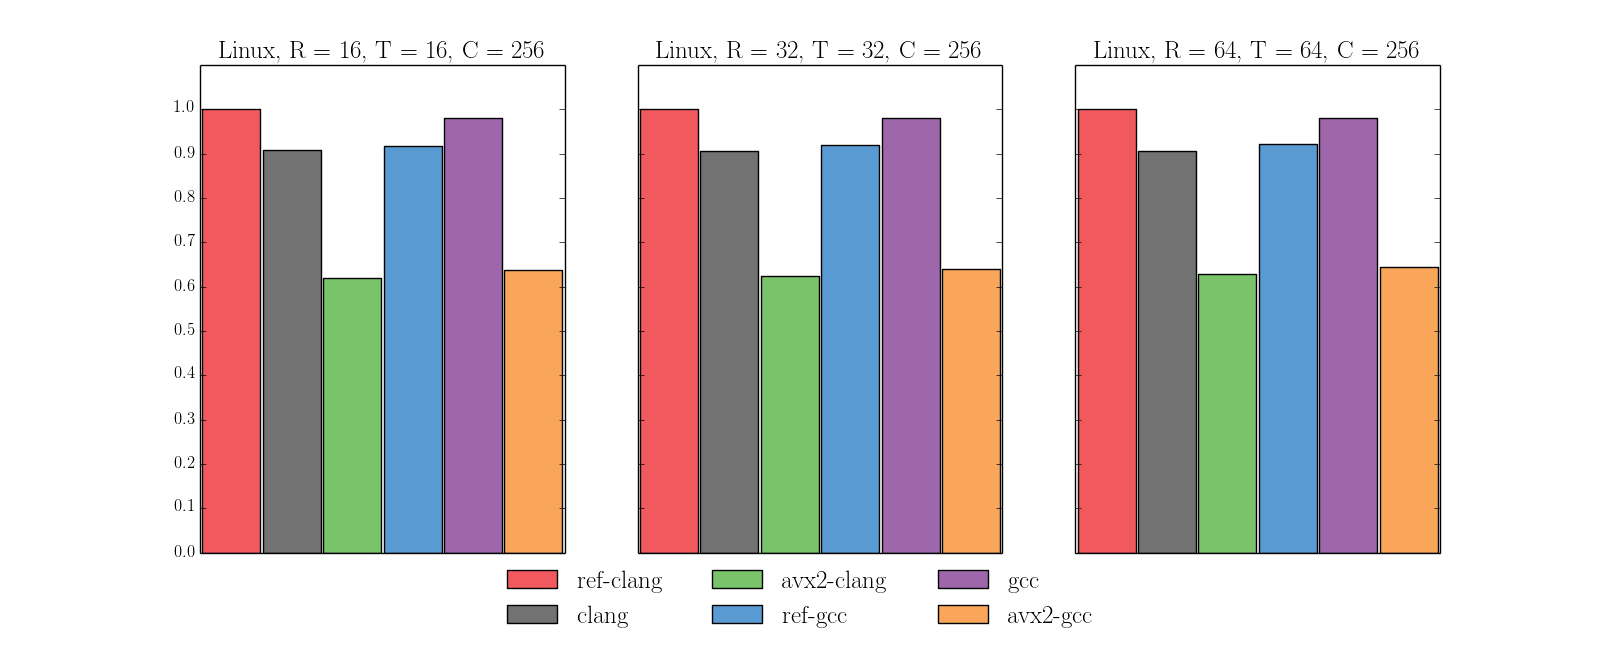
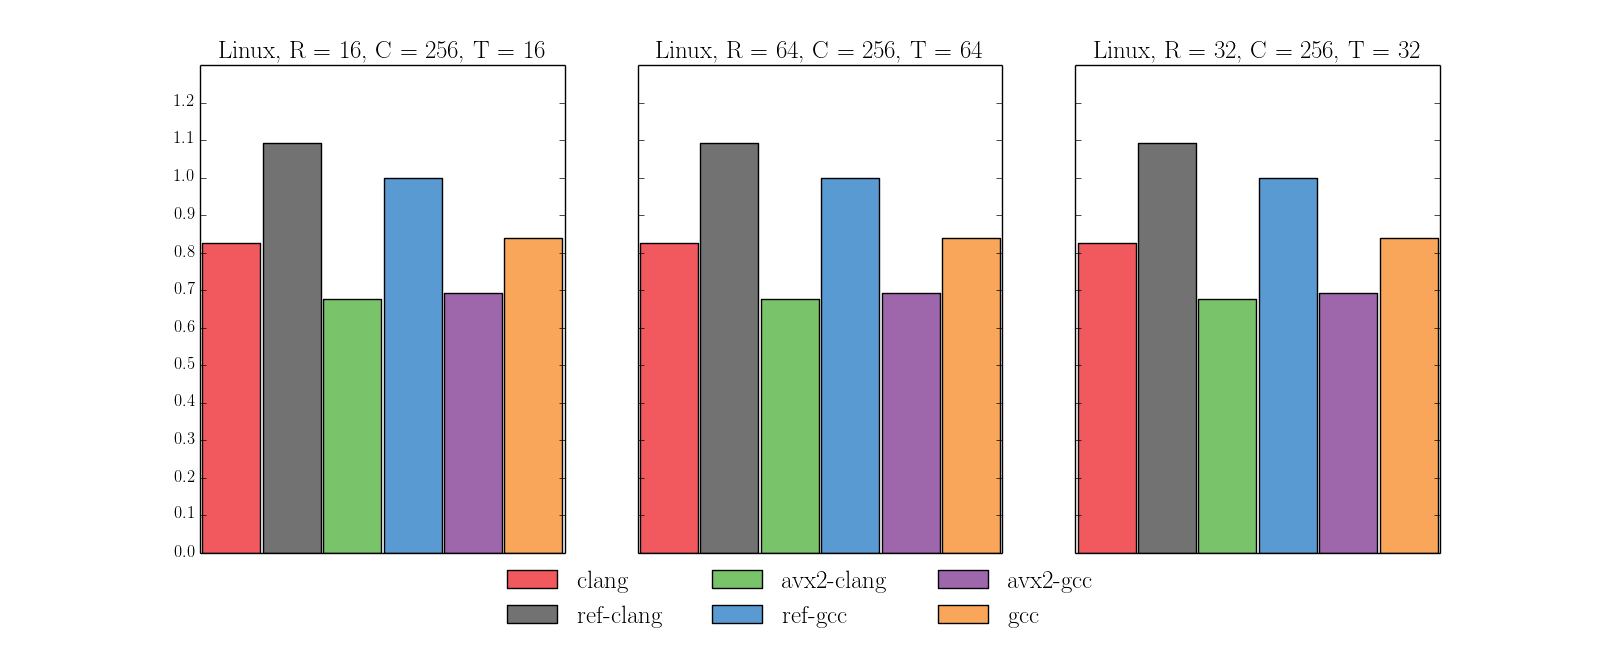
Always use the same order for bars.
Fixes #9

diff --git a/scripts/make_graphs.py b/scripts/make_graphs.py
@@ -22,8 +22,11 @@ for results_file in sys.argv[2:]:
 
     all_results[env.lower()] = []
     for params in results:
+        builds_and_timings = results[params].items()
+        builds_and_timings.sort(key = lambda t: t[0].rsplit('-', 1)[-1])
+
         all_results[env.lower()].append(
-            (env + ', ' + params, results[params].items()))
+            (env + ', ' + params, builds_and_timings))
 
 for _, results in all_results.items():
     for _, timings in results:
@@ -32,7 +35,17 @@ for _, results in all_results.items():
 for figname, results in all_results.items():
     fig, axes = plt.subplots(
         ncols = len(results), nrows = 1, facecolor = 'white', sharey = True)
+
     for a, (test, timings) in zip(axes, results):
+        reference_time = None
+        for _, timings in results:
+            for build, (time, sdev) in timings:
+                # We sorted by build name above, so we know ref-clang will appear
+                # before ref-gcc. This means we'll use ref-gcc if available, and
+                # ref-clang as a fallback.
+                if build == 'ref-gcc' or build == 'ref-clang':
+                    reference_time = float(time)
+
         width = 0.3
         bars = [] # save the last bar graphs we've built for the legend
         ntimings = len(timings)
@@ -54,10 +67,10 @@ for figname, results in all_results.items():
         color_picker = itertools.cycle(colors)
         for build, (time, sdev) in timings:
             b = a.bar(left = left,
-                      height = float(time) / timings[0][1][0],
+                      height = float(time) / reference_time,
                       width = width,
                       color = next(color_picker),
-                      label = build)
+                      label = build.replace('lyra2-', ''))
             bars.append(b)
             left += width + step
 
